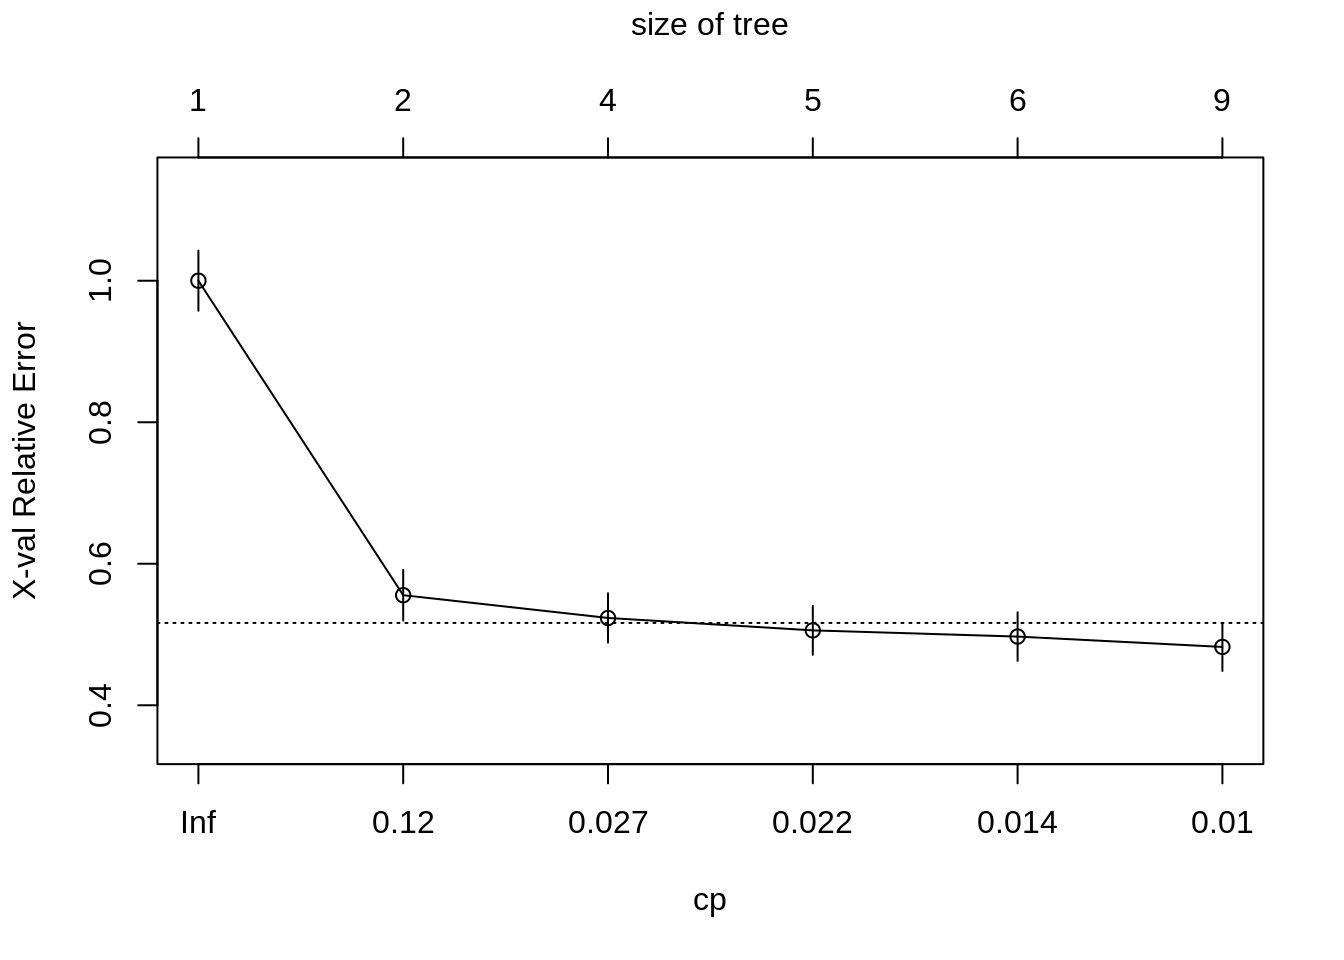
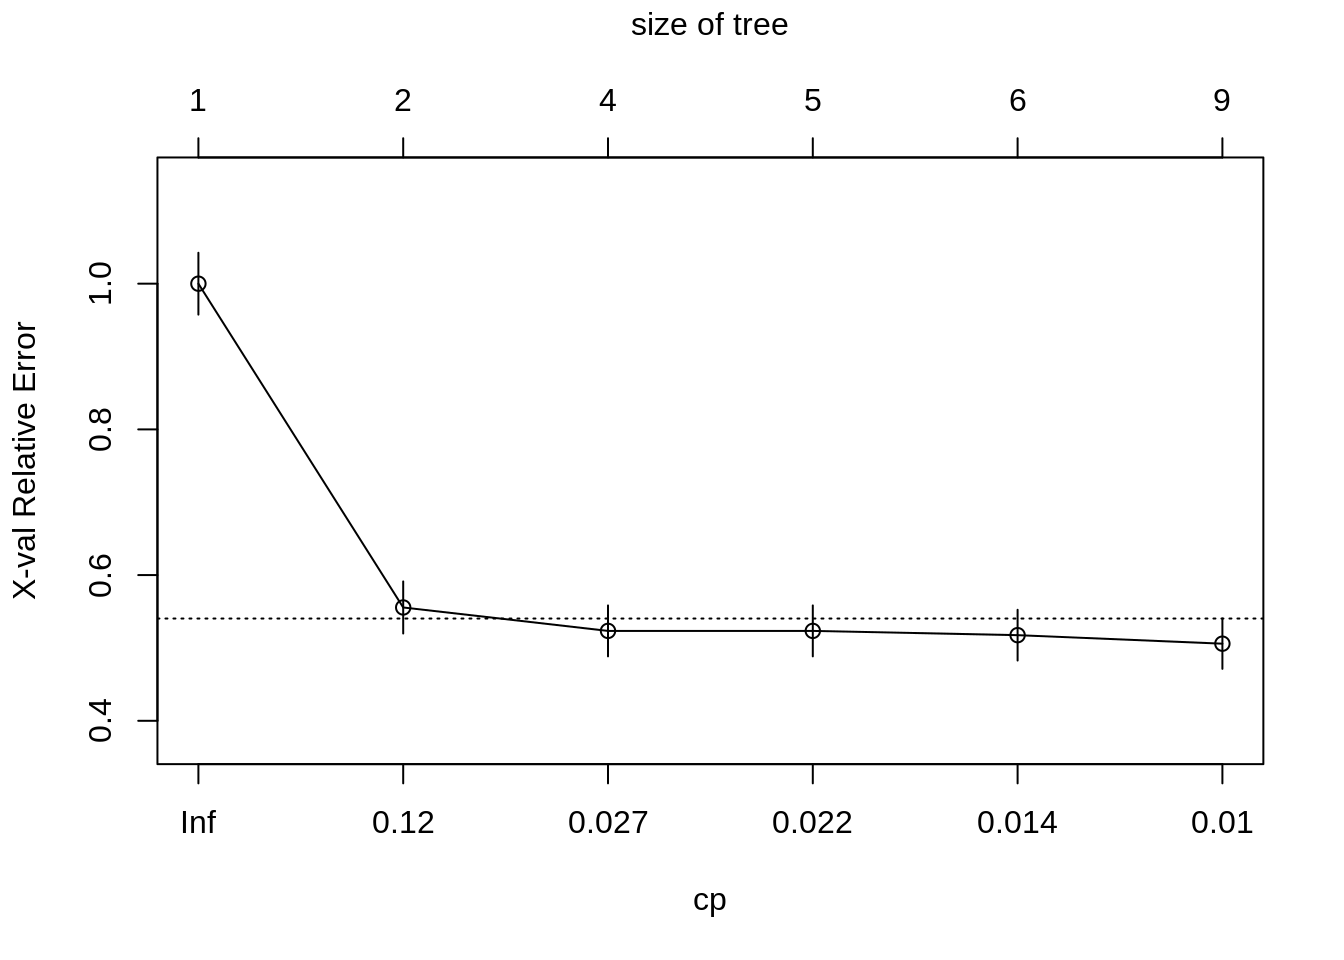
Deploy lebebr01/stat_thinking to github.com/lebebr01/stat_thinking.git:master

diff --git a/docs/classification.html b/docs/classification.html
@@ -325,9 +325,9 @@ titanic &lt;-<span class="st"> </span><span class="kw">bind_rows</span>(titanic_
 ## 1 0.444444      0   1.00000 1.00000 0.042446
 ## 2 0.030702      1   0.55556 0.55556 0.035750
 ## 3 0.023392      3   0.49415 0.52339 0.034970
-## 4 0.020468      4   0.47076 0.50585 0.034524
-## 5 0.010234      5   0.45029 0.49708 0.034295
-## 6 0.010000      8   0.41813 0.48246 0.033904</code></pre>
+## 4 0.020468      4   0.47076 0.52339 0.034970
+## 5 0.010234      5   0.45029 0.51754 0.034823
+## 6 0.010000      8   0.41813 0.50585 0.034524</code></pre>
 <div class="sourceCode"><pre class="sourceCode r"><code class="sourceCode r"><span class="kw">plotcp</span>(class_tree)</code></pre></div>
 <p><img src="05-classification_files/figure-html/unnamed-chunk-6-1.png" width="672" /></p>
 <div class="sourceCode"><pre class="sourceCode r"><code class="sourceCode r">prune_class_tree &lt;-<span class="st"> </span><span class="kw">prune</span>(class_tree, <span class="dt">cp =</span> .<span class="dv">02</span>)

diff --git a/docs/05-classification.md b/docs/05-classification.md
@@ -250,9 +250,9 @@ printcp(class_tree)
 ## 1 0.444444      0   1.00000 1.00000 0.042446
 ## 2 0.030702      1   0.55556 0.55556 0.035750
 ## 3 0.023392      3   0.49415 0.52339 0.034970
-## 4 0.020468      4   0.47076 0.50585 0.034524
-## 5 0.010234      5   0.45029 0.49708 0.034295
-## 6 0.010000      8   0.41813 0.48246 0.033904
+## 4 0.020468      4   0.47076 0.52339 0.034970
+## 5 0.010234      5   0.45029 0.51754 0.034823
+## 6 0.010000      8   0.41813 0.50585 0.034524
 ```
 
 ```r
